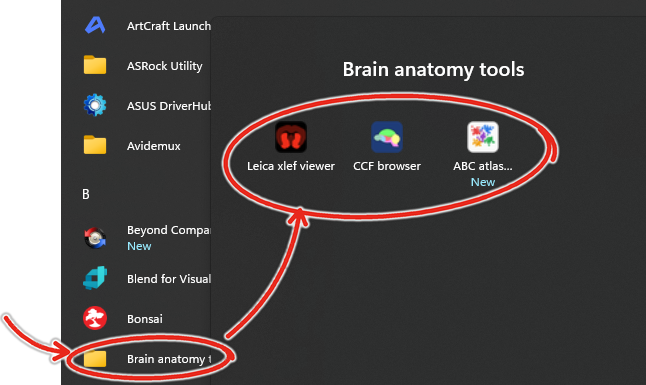
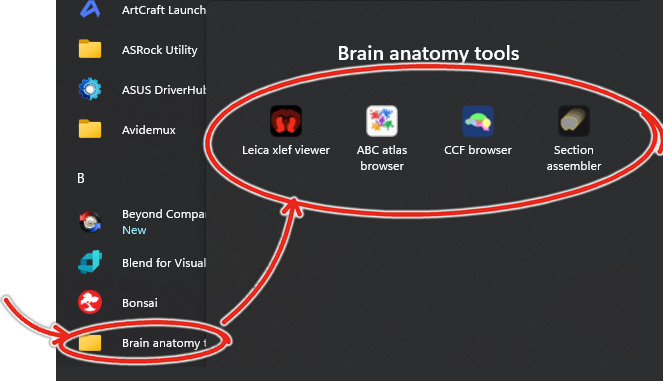
README: Start menu screenshot with all four apps

Changed region(s): [[0.0, 0.0, 1.0, 1.0], [0.1238, 0.4908, 0.1548, 0.5197]]

diff --git a/README.md b/README.md
@@ -12,7 +12,7 @@ Unzip the download, then double click `INSTALL_APPS.bat` on Windows (red arrow b
 
 You should see 4 new apps in the Windows Start Menu (or Mac Applications folder):
 
-<p align="center"><img src="src/readme_images/start_menu.png" width="452" alt="The &quot;Brain anatomy tools&quot; folder in the Windows Start menu, with the three apps"></p>
+<p align="center"><img src="src/readme_images/start_menu.png" width="464" alt="The &quot;Brain anatomy tools&quot; folder in the Windows Start menu, with the four apps"></p>
 
 Run the apps like you would any normal Windows or Mac app.
 
